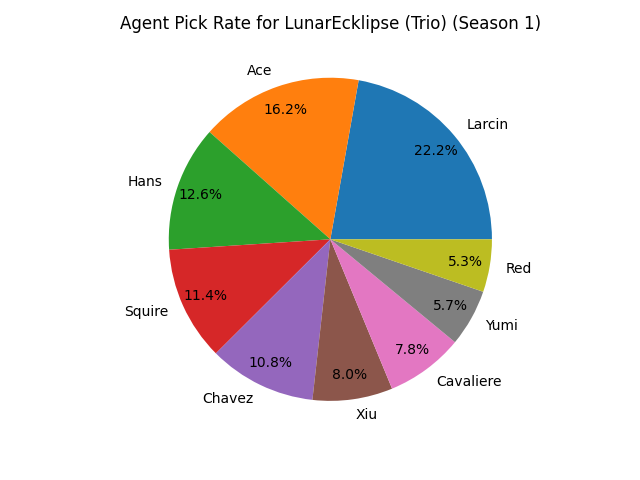
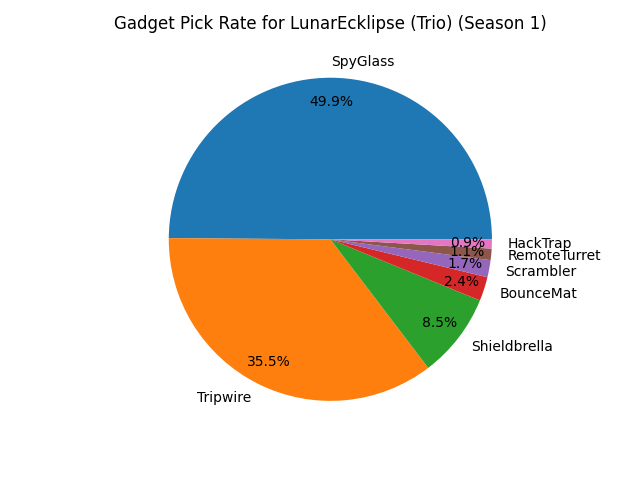
Various improvements

diff --git a/bot/lib/scrim_playerstats.py b/bot/lib/scrim_playerstats.py
@@ -49,3 +49,49 @@ class ScrimPieCharts:
         plt.savefig(img_buf, format='png')
         img_buf.seek(0)
         return Image.open(img_buf)
+    
+    @staticmethod
+    def generate_gadget_pickrate_pie_chart(user: SweetUser, gamemode: Union[GameMode, None] = None, season: int = None) -> Union[Image, None]:
+        '''Generates a pie chart showing the gadget pick rate for a specific gamemode and season. If no season is specified, uses lifetime stats.'''
+        gadget_stats = user.gadget_stats
+        gadgets: List[Tuple[str, int]] = []
+        title: str = f"Gadget Pick Rate for {user.display_name}"
+        if gamemode is not None:
+            match gamemode:
+                case GameMode.SOLO:
+                    title += " (Solo)"
+                case GameMode.DUO:
+                    title += " (Duo)"
+                case GameMode.TRIO:
+                    title += " (Trio)"
+        if season is None:
+            title += " (Lifetime)"
+            if "lifetime" not in gadget_stats:
+                return None
+            for i in gadget_stats.items():
+                gadgets.append((i[0], i[1].lifetime_stats.get_number_of_picks(gamemode)))
+        else:
+            title += f" (Season {int(season)})"
+            for i in gadget_stats.items():
+                if season not in i[1].seasonal_stats:
+                    continue
+                gadgets.append((i[0], i[1].seasonal_stats[season].get_number_of_picks(gamemode)))
+        gadgets.sort(key=lambda x: x[1], reverse=True)
+        # Remove any gadgets with 0 pick rates
+        gadgets = [i for i in gadgets if i[1] > 0]
+        gadget_names = [i[0] for i in gadgets]
+        gadget_pick_rates = np.array([i[1] for i in gadgets])
+        plt.title(title)
+        plt.tight_layout()
+        plt.pie(gadget_pick_rates, labels=gadget_names, startangle=0, autopct='%1.1f%%', pctdistance=0.85, labeldistance=1.1)
+
+        img_buf = io.BytesIO()
+        plt.savefig(img_buf, format='png')
+        img_buf.seek(0)
+        return Image.open(img_buf)
+            
+class ScrimPlots:
+    @staticmethod
+    def calculate_agent_pickrates_over_seasons(sw: SweetUser, gamemode: Union[GameMode, None] = None) -> Image:
+        '''Calculates the agent pick rates over all seasons for a specific gamemode. If no gamemode is supplied uses all gamemodes.'''
+        pass

diff --git a/bot/main.py b/bot/main.py
@@ -2,7 +2,7 @@ import os, sys
 from typing import Optional
 from dotenv import load_dotenv
 from discord.ext import commands
-from lib.scrim_playerstats import ScrimPieCharts
+from lib.scrim_playerstats import ScrimPieCharts, ScrimPlots
 from lib.DI_API_Obj.gamemode import GameMode
 from PIL import Image
 
@@ -40,10 +40,10 @@ cog = bot.cogs.get("ScrimReader")
 @bot.event
 async def on_ready():
     print(f'Logged in as {bot.user} (ID: {bot.user.id})') #type: ignore
-    api = await scrim_di_api.DeceiveIncAPIClient.initialize(os.getenv("DI_CLIENT_ID"), os.getenv("DI_CLIENT_SECRET")) #type: ignore
-    print(await api.search_users("lunarecklipse"))
-    sw = await api.get_user("609iii90-00ih-6243-19i3-h2hi1m44l2i4")
-    im = ScrimPieCharts.generate_agent_pickrate_pie_chart(sw, GameMode.TRIO, 1)
-    im.save("test.png")
+    # api = await scrim_di_api.DeceiveIncAPIClient.initialize(os.getenv("DI_CLIENT_ID"), os.getenv("DI_CLIENT_SECRET")) #type: ignore
+    # print(await api.search_users("lunarecklipse"))
+    # sw = await api.get_user("609iii90-00ih-6243-19i3-h2hi1m44l2i4")
+    # im = ScrimPlots.calculate_agent_pickrates_over_seasons(sw)
+    # im.save("test.png")
 
 bot.run(os.getenv('DISCORD_BOT_TOKEN')) # Get the token from the .env file

diff --git a/bot/lib/DI_API_Obj/gadget_stats.py b/bot/lib/DI_API_Obj/gadget_stats.py
@@ -19,6 +19,10 @@ class GadgetTimelineStats:
         if overall_match_count == 0:
             return 0.0
         return matches_played / overall_match_count
+    
+    def get_number_of_picks(self, gamemode: GameMode) -> int:
+        '''Returns the number of picks for a specific gamemode.'''
+        return self.pick_count.get_gamemode(gamemode)
 
 class GadgetStats:
     gadget_name: str
@@ -28,4 +32,4 @@ class GadgetStats:
     def __init__(self, gadget_name: str, lifetime_stats: Optional[GadgetTimelineStats] = None, seasonal_stats: Optional[Dict[int, GadgetTimelineStats]] = {}):
         self.gadget_name = gadget_name
         self.lifetime_stats = lifetime_stats
-        self.seasonal_stats = seasonal_stats
+        self.seasonal_stats = dict.copy(seasonal_stats)

diff --git a/bot/lib/scrim_reader.py b/bot/lib/scrim_reader.py
@@ -161,7 +161,7 @@ class ScrimReader(commands.Cog):
 
     def spawn_processes(self, num_ocr_processes: int = 8):
         for i in range(num_ocr_processes):
-            p = Thread(target=self._read_image_process, args=(self.read_queue, self.results_queue))
+            p = Thread(target=self._read_image_process, args=(self.read_queue, self.results_queue), name=f"OCRReaderThread_{str(i)}")
             p.start()
             self.reader_processes.append(p)
 
